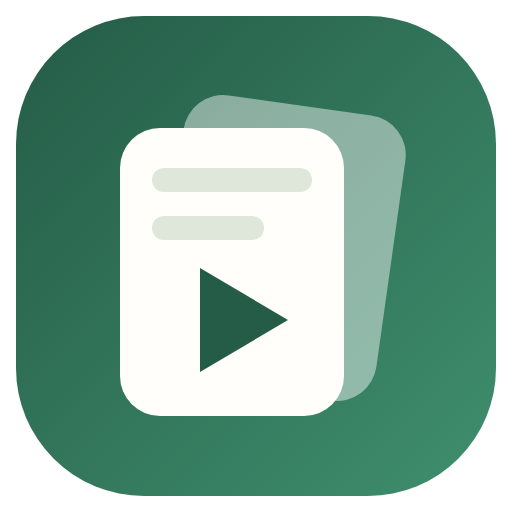
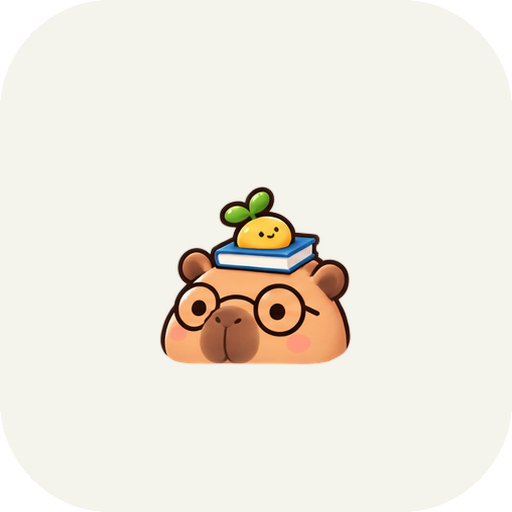
카피바라 캐릭터 적용: 로고, 로딩, 안내 애니메이션, 아이콘 / 카테고리 이모지 제거
- 헤더 로고를 카피바라 '쌤플레이' 로고 이미지로 교체, 파비콘·홈 화면 아이콘도 카피바라 얼굴로
- 스프라이트 시트를 잘라 blink(9)·read(11)·type(11)·sleep(9)·dance(33) 애니메이션 스트립(webp+png) 생성
- 첫 로딩 스플래시(책 읽는 카피바라), 큰 보기·선택 이미지 로딩 중 노트북 카피바라
- 프롬프트 복사 안내 팝업·플로팅 카드에 댄스 카피바라, 검색 결과 없음·푸터에 잠자는 카피바라
- 소개 페이지: 히어로 버튼 옆 댄스, 대상 카드에 노트북·독서, CTA 카드에 마스코트
- 카테고리 탭·그룹 라벨의 이모지 제거

Claude-Session: https://claude.ai/code/session_01VZ1UE2bfaEou2XbhDjdsN4

diff --git a/about.html b/about.html
@@ -4,7 +4,7 @@
 <meta charset="utf-8">
 <meta name="viewport" content="width=device-width, initial-scale=1">
 <meta name="theme-color" content="#255c47">
-<link rel="icon" type="image/svg+xml" href="assets/logo.svg">
+<link rel="icon" type="image/png" href="assets/favicon.png">
 <link rel="apple-touch-icon" href="assets/apple-touch-icon.png">
 <link rel="manifest" href="manifest.webmanifest">
 <title>쌤플레이 소개 · 교육 요약자료, 그림 한 장 고르면 됩니다</title>
@@ -18,9 +18,10 @@ a{color:inherit}
 .wrap{max-width:1080px;margin:0 auto;padding:0 20px}
 header.wrap{padding:18px 20px 8px}
 .topbar{display:flex;align-items:center;justify-content:space-between;gap:12px}
-.brand{font-weight:800;font-size:17px;display:flex;align-items:center;gap:10px;text-decoration:none}
-.brand img{width:34px;height:34px;border-radius:10px;box-shadow:0 6px 14px -6px var(--accent)}
-.brand small{font-weight:500;color:var(--muted);font-size:12.5px}
+.brand{display:flex;align-items:center;gap:10px;color:inherit;text-decoration:none;border-radius:10px;transition:opacity .2s;padding:2px 0}
+.brand:hover{opacity:.85}
+.brand .logo{height:56px;width:auto;display:block;filter:drop-shadow(0 4px 8px rgba(38,62,54,.18))}
+.brand small{font-weight:600;color:var(--muted);font-size:12.5px;margin-top:10px}
 .menu{position:relative;flex:none}
 .hamb{width:44px;height:44px;border:0;border-radius:50%;background:linear-gradient(145deg,#fffefa,#eef2e9);box-shadow:inset 0 1px 0 #fff,0 6px 14px -6px rgba(38,62,54,.45),0 0 0 1px var(--line);display:grid;place-items:center;padding:0;cursor:pointer;transition:transform .25s cubic-bezier(.34,1.56,.64,1),box-shadow .25s,background .3s}
 .hamb:hover{transform:translateY(-1px);box-shadow:inset 0 1px 0 #fff,0 10px 18px -8px rgba(38,62,54,.5),0 0 0 1px var(--accent)}
@@ -167,15 +168,30 @@ footer{padding:24px 0 36px;color:var(--muted);font-size:12.5px;text-align:center
   .slider{height:300px}
   .cols,.steps{grid-template-columns:1fr}
   header.wrap{padding:22px 20px 8px;padding-top:calc(22px + env(safe-area-inset-top))}
-  .brand{white-space:nowrap}
+  .brand .logo{height:44px}
   .brand small{display:none}
 }
+.capy{display:inline-block;overflow:hidden;position:relative;flex:none;vertical-align:middle;pointer-events:none}
+.capy img{position:absolute;left:0;top:0;height:100%;width:auto;max-width:none;animation:capySlide linear infinite}
+@keyframes capySlide{to{transform:translateX(-100%)}}
+.capy-blink{aspect-ratio:152/128}.capy-blink img{animation-duration:3.6s;animation-timing-function:steps(9)}
+.capy-read{aspect-ratio:115/128}.capy-read img{animation-duration:2.4s;animation-timing-function:steps(11)}
+.capy-type{aspect-ratio:138/128}.capy-type img{animation-duration:1.8s;animation-timing-function:steps(11)}
+.capy-sleep{aspect-ratio:201/128}.capy-sleep img{animation-duration:4s;animation-timing-function:steps(9)}
+.capy-dance{aspect-ratio:146/128}.capy-dance img{animation-duration:4s;animation-timing-function:steps(33)}
+.capy.h32{height:32px}.capy.h36{height:36px}.capy.h40{height:40px}.capy.h44{height:44px}.capy.h48{height:48px}.capy.h56{height:56px}.capy.h64{height:64px}.capy.h80{height:80px}.capy.h96{height:96px}
+.imgload{position:absolute;inset:10px;display:grid;place-items:center;background:rgba(245,240,231,.85);border-radius:12px;z-index:1}.imgload[hidden]{display:none}
+#splash{position:fixed;inset:0;z-index:999;background:var(--paper);display:grid;place-items:center;transition:opacity .4s}#splash.out{opacity:0;pointer-events:none}#splash .sin{display:grid;justify-items:center;gap:6px}#splash img.lg{width:min(70vw,260px);height:auto}
+@media(prefers-reduced-motion:reduce){.capy img{animation:none}}
+.hero .btns{align-items:center}
+.cta-capy{width:150px;height:auto;margin:-8px auto 4px;display:block}
+.card h3 .capy{margin-left:auto}
 </style>
 </head>
 <body>
 <header class="wrap">
   <div class="topbar">
-    <a class="brand" href="index.html"><img src="assets/logo.svg" alt="">쌤플레이<small>AI마당 · 선생님 모여라</small></a>
+    <a class="brand" href="index.html"><img class="logo" src="assets/logo-capy.png" alt="쌤플레이"><small>AI마당 · 선생님 모여라</small></a>
     <div class="menu"><button id="menuBtn" class="hamb" aria-label="더 보기 메뉴" aria-expanded="false"><span class="hb"><i></i><i></i><i></i></span></button><nav id="menuList" class="menulist" hidden><a href="index.html">쌤플 고르기</a><a href="#how">사용 방법</a><a href="#who">이런 분께</a></nav></div>
   </div>
 </header>
@@ -186,7 +202,7 @@ footer{padding:24px 0 36px;color:var(--muted);font-size:12.5px;text-align:center
       <h1>교육 요약자료,<br><em>그림 한 장</em> 고르면 됩니다.</h1>
       <p>쌤플레이는 선생님의 <b>강의자료</b>와 학생의 <b>공부 자료</b>를 ChatGPT 이미지로 만들 때 쓰는 프롬프트 쌤플 생성 사이트입니다.</p>
       <p>마음에 드는 예시 그림을 고르고 과목과 주제만 적으면 프롬프트가 완성됩니다. 복사해서 ChatGPT에 붙여넣고, 교과서 사진이나 학습지를 함께 올리면 그 내용으로 정리된 한 장이 나옵니다.</p>
-      <div class="btns"><a class="btn primary" href="index.html">지금 만들어 보기</a><a class="btn" href="#how">어떻게 쓰나요?</a></div>
+      <div class="btns"><a class="btn primary" href="index.html">지금 만들어 보기</a><a class="btn" href="#how">어떻게 쓰나요?</a><span class="capy capy-dance h64" aria-hidden="true"><img src="assets/capy-dance.webp" alt="" onerror="this.onerror=null;this.src='assets/capy-dance.png'"></span></div>
     </div>
     <div class="stage">
       <div class="stage-top"><i></i><i></i><i></i><span>쌤플 미리보기 · 자동 재생</span></div>
@@ -208,7 +224,7 @@ footer{padding:24px 0 36px;color:var(--muted);font-size:12.5px;text-align:center
     <div class="steps" id="steps">
       <div class="step on"><b>1</b><strong>쌤플 고르기</strong><span>학습 노트, 암기 카드, 지도안, 학습지, 평가지 중 마음에 드는 그림을 누릅니다.</span>
         <div class="mini"><span class="extag">예시</span><div class="mk mk1">
-          <div class="mk-tabs"><i class="on">전체</i><i>🍎 선생님용</i><i>📘 정리</i></div>
+          <div class="mk-tabs"><i class="on">전체</i><i>선생님용</i><i>정리</i></div>
           <div class="mk-grid"><div><img src="assets/thumbs/s-onepage.jpg" alt=""></div><div class="pick"><img src="assets/thumbs/s-cornell.jpg" alt=""><span class="ck">✓</span></div><div><img src="assets/thumbs/s-flashcards.jpg" alt=""></div><div><img src="assets/thumbs/t-plan.jpg" alt=""></div></div>
           <span class="mk-hand" style="left:36%;top:52%">👆</span>
         </div></div></div>
@@ -236,20 +252,21 @@ footer{padding:24px 0 36px;color:var(--muted);font-size:12.5px;text-align:center
   <section id="who" class="reveal">
     <h2>이런 분께</h2>
     <div class="cols">
-      <div class="card t"><h3><span class="ic">🍎</span>선생님</h3><p>한 차시 수업에 필요한 자료를 한 번에.</p><ul><li>학습 목표, 수업 흐름, 50분 지도안</li><li>핵심 발문, 선수학습 진단</li><li>활동 학습지, 형성평가, 채점 기준표</li></ul></div>
-      <div class="card"><h3><span class="ic">📘</span>공부하는 사람</h3><p>정리하고, 이해하고, 외우고, 점검하는 순서 그대로.</p><ul><li>한 장 복습 자료, 코넬 노트, 개념 시각화</li><li>쉽게 설명하기, 비유, 원리 이해</li><li>암기 카드, 두문자, 빈칸 문제, 예상문제</li></ul></div>
+      <div class="card t"><h3><span class="ic">🍎</span>선생님<span class="capy capy-type h48" aria-hidden="true"><img src="assets/capy-type.webp" alt="" onerror="this.onerror=null;this.src='assets/capy-type.png'"></span></h3><p>한 차시 수업에 필요한 자료를 한 번에.</p><ul><li>학습 목표, 수업 흐름, 50분 지도안</li><li>핵심 발문, 선수학습 진단</li><li>활동 학습지, 형성평가, 채점 기준표</li></ul></div>
+      <div class="card"><h3><span class="ic">📘</span>공부하는 사람<span class="capy capy-read h48" aria-hidden="true"><img src="assets/capy-read.webp" alt="" onerror="this.onerror=null;this.src='assets/capy-read.png'"></span></h3><p>정리하고, 이해하고, 외우고, 점검하는 순서 그대로.</p><ul><li>한 장 복습 자료, 코넬 노트, 개념 시각화</li><li>쉽게 설명하기, 비유, 원리 이해</li><li>암기 카드, 두문자, 빈칸 문제, 예상문제</li></ul></div>
     </div>
   </section>
 
   <section class="reveal">
     <div class="card" style="text-align:center;padding:28px">
+      <img class="cta-capy" src="assets/capy-mascot.webp" alt="" onerror="this.onerror=null;this.src='assets/capy-mascot.png'">
       <h2 style="margin-bottom:6px">바로 써 보세요</h2>
       <p class="lead" style="margin:0 auto 16px">설치도, 가입도 없습니다. 입력한 내용은 저장되지 않습니다.</p>
       <a class="btn primary" href="index.html">쌤플 고르러 가기 →</a>
     </div>
   </section>
 </main>
-<footer class="wrap">쌤플레이 · AI마당, 선생님 모여라</footer>
+<footer class="wrap" style="display:flex;align-items:center;justify-content:center;gap:8px"><span class="capy capy-sleep h36" aria-hidden="true"><img src="assets/capy-sleep.webp" alt="" onerror="this.onerror=null;this.src='assets/capy-sleep.png'"></span>쌤플레이 · AI마당, 선생님 모여라</footer>
 
 <script>
 const slides=[{"key": "s-onepage", "name": "한 장 복습 자료", "desc": "개요·인물·흐름·개념을 인포그래픽으로", "group": "정리", "role": "student", "thumb": "assets/thumbs/s-onepage.jpg", "featured": true}, {"key": "s-hand", "name": "손글씨 학습 노트", "desc": "개요·인물·흐름·주제를 손글씨 한 장에", "group": "정리", "role": "student", "thumb": "assets/thumbs/s-hand.jpg", "featured": false}, {"key": "s-postit", "name": "포스트잇 요약", "desc": "개념 하나씩 떼어 외우는 메모 9장", "group": "정리", "role": "student", "thumb": "assets/thumbs/s-postit.jpg", "featured": false}, {"key": "s-cornell", "name": "코넬 노트", "desc": "핵심 질문 | 학습 내용 | 요약", "group": "정리", "role": "student", "thumb": "assets/thumbs/s-cornell.jpg", "featured": true}, {"key": "s-visual", "name": "개념 시각화", "desc": "관계도 + 흐름도 + 읽는 순서", "group": "정리", "role": "student", "thumb": "assets/thumbs/s-visual.jpg", "featured": false}, {"key": "s-notes", "name": "시험 대비 정리 노트", "desc": "개념·관계·시험 포인트를 빽빽하게", "group": "정리", "role": "student", "thumb": "assets/thumbs/s-notes.jpg", "featured": false}, {"key": "s-map", "name": "구조·변화 도식", "desc": "흐름과 변화를 도식 하나로", "group": "정리", "role": "student", "thumb": "assets/thumbs/s-map.jpg", "featured": false}, {"key": "s-summary", "name": "단원 요약하기", "desc": "핵심 개념·공식·예시·주의점", "group": "정리", "role": "student", "thumb": "assets/thumbs/s-summary.jpg", "featured": false}, {"key": "s-glossary", "name": "용어 사전", "desc": "용어·정의·예시·혼동 주의 표", "group": "정리", "role": "student", "thumb": "assets/thumbs/s-glossary.jpg", "featured": false}, {"key": "s-formula", "name": "공식 정리", "desc": "핵심 틀 4개를 공식 카드로", "group": "정리", "role": "student", "thumb": "assets/thumbs/s-formula.jpg", "featured": false}, {"key": "s-timeline", "name": "시간순 정리", "desc": "사건 → 원인 → 결과 표", "group": "정리", "role": "student", "thumb": "assets/thumbs/s-timeline.jpg", "featured": false}, {"key": "s-process", "name": "과정 단계별 정리", "desc": "입력 → 변화 → 결과 표", "group": "정리", "role": "student", "thumb": "assets/thumbs/s-process.jpg", "featured": false}, {"key": "s-comparetable", "name": "비교표 만들기", "desc": "기준별 좌우 비교 + 아이콘", "group": "정리", "role": "student", "thumb": "assets/thumbs/s-comparetable.jpg", "featured": false}, {"key": "s-keypoints", "name": "핵심 내용 추리기", "desc": "핵심 10개 + 선정 이유 + 위치", "group": "정리", "role": "student", "thumb": "assets/thumbs/s-keypoints.jpg", "featured": false}, {"key": "s-basics", "name": "기초 개념 확인하기", "desc": "개념 정리 + 확인 질문", "group": "이해", "role": "student", "thumb": "assets/thumbs/s-basics.jpg", "featured": false}, {"key": "s-explain", "name": "쉽게 설명하기", "desc": "쉬운 말 설명 + 용어 뜻", "group": "이해", "role": "student", "thumb": "assets/thumbs/s-explain.jpg", "featured": false}, {"key": "s-analogy", "name": "일상생활에 비유하기", "desc": "비유 장면 + 대응표 + 한계", "group": "이해", "role": "student", "thumb": "assets/thumbs/s-analogy.jpg", "featured": false}, {"key": "s-principle", "name": "원리 이해하기", "desc": "단계별 근거와 적용 조건", "group": "이해", "role": "student", "thumb": "assets/thumbs/s-principle.jpg", "featured": false}, {"key": "s-compare", "name": "헷갈리는 개념 비교", "desc": "정의·공통점·차이점 비교표", "group": "이해", "role": "student", "thumb": "assets/thumbs/s-compare.jpg", "featured": false}, {"key": "s-counter", "name": "반례와 적용 조건", "desc": "흔한 주장 → 반례 → 조건", "group": "이해", "role": "student", "thumb": "assets/thumbs/s-counter.jpg", "featured": false}, {"key": "s-misconception", "name": "오개념 바로잡기", "desc": "오개념 ↔ 올바른 설명 표", "group": "이해", "role": "student", "thumb": "assets/thumbs/s-misconception.jpg", "featured": false}, {"key": "s-realcase", "name": "실제 사례 연결하기", "desc": "사례 카드 + 연결되는 개념", "group": "이해", "role": "student", "thumb": "assets/thumbs/s-realcase.jpg", "featured": false}, {"key": "s-socratic", "name": "질문으로 이해하기", "desc": "질문→답변→피드백→힌트", "group": "이해", "role": "student", "thumb": "assets/thumbs/s-socratic.jpg", "featured": false}, {"key": "s-flashcards", "name": "암기 카드 만들기", "desc": "앞면 질문 → 뒷면 정답 카드 쌍", "group": "암기", "role": "student", "thumb": "assets/thumbs/s-flashcards.jpg", "featured": true}, {"key": "s-cards", "name": "암기 카드", "desc": "질문 ↔ 정답으로 기억 확인", "group": "암기", "role": "student", "thumb": "assets/thumbs/s-cards.jpg", "featured": false}, {"key": "s-acronym", "name": "두문자 암기법", "desc": "첫 글자 조합 3가지 버전", "group": "암기", "role": "student", "thumb": "assets/thumbs/s-acronym.jpg", "featured": false}, {"key": "s-story", "name": "이야기로 외우기", "desc": "항목을 엮은 짧은 이야기 + 대응표", "group": "암기", "role": "student", "thumb": "assets/thumbs/s-story.jpg", "featured": true}, {"key": "s-chunk", "name": "묶어서 외우기", "desc": "의미 묶음 4개로 나누기", "group": "암기", "role": "student", "thumb": "assets/thumbs/s-chunk.jpg", "featured": false}, {"key": "s-blanks", "name": "빈칸 문제 만들기", "desc": "4컷 만화 속 빈칸 채우기", "group": "암기", "role": "student", "thumb": "assets/thumbs/s-blanks.jpg", "featured": false}, {"key": "s-retrieval", "name": "기억 꺼내기 연습", "desc": "질문 + 빈 답 칸 + 힌트", "group": "점검", "role": "student", "thumb": "assets/thumbs/s-retrieval.jpg", "featured": false}, {"key": "s-recallcheck", "name": "기억한 내용 점검", "desc": "기억 적기 → 틀린·빠진 내용", "group": "점검", "role": "student", "thumb": "assets/thumbs/s-recallcheck.jpg", "featured": false}, {"key": "s-selfcheck", "name": "내 설명 점검하기", "desc": "틀린 곳·빠진 곳을 표로", "group": "점검", "role": "student", "thumb": "assets/thumbs/s-selfcheck.jpg", "featured": false}, {"key": "s-summarycheck", "name": "요약 정확성 확인", "desc": "내 요약 vs 원문 대조표", "group": "점검", "role": "student", "thumb": "assets/thumbs/s-summarycheck.jpg", "featured": false}, {"key": "s-solving", "name": "풀이 과정 이해하기", "desc": "예제 풀이 단계 + 유사 문제", "group": "점검", "role": "student", "thumb": "assets/thumbs/s-solving.jpg", "featured": false}, {"key": "s-questions", "name": "근거 기반 예상문제", "desc": "문항표 + 선정 근거 + 정답", "group": "점검", "role": "student", "thumb": "assets/thumbs/s-questions.jpg", "featured": false}, {"key": "s-judgment", "name": "OX 선지 판단", "desc": "헷갈리는 선지를 OX와 근거로", "group": "점검", "role": "student", "thumb": "assets/thumbs/s-judgment.jpg", "featured": false}, {"key": "t-goals", "name": "학습 목표 만들기", "desc": "성취기준 → 수준별 목표 3개", "group": "선생님용", "role": "teacher", "thumb": "assets/thumbs/t-goals.jpg", "featured": false}, {"key": "t-flow", "name": "수업 흐름 간단 설계", "desc": "도입·전개·정리 시간표", "group": "선생님용", "role": "teacher", "thumb": "assets/thumbs/t-flow.jpg", "featured": false}, {"key": "t-plan", "name": "수업 지도안", "desc": "목표·발문·활동·평가 한 장 설계", "group": "선생님용", "role": "teacher", "thumb": "assets/thumbs/t-plan.jpg", "featured": true}, {"key": "t-questions", "name": "핵심 발문 만들기", "desc": "질문 의도·예상 답변·꼬리 질문", "group": "선생님용", "role": "teacher", "thumb": "assets/thumbs/t-questions.jpg", "featured": true}, {"key": "t-sheet", "name": "활동 학습지", "desc": "빈칸·비교표·서술형 직접 채우기", "group": "선생님용", "role": "teacher", "thumb": "assets/thumbs/t-sheet.jpg", "featured": false}, {"key": "t-diagnosis", "name": "선수학습 진단", "desc": "선수 개념 + 객관식 진단 문제", "group": "선생님용", "role": "teacher", "thumb": "assets/thumbs/t-diagnosis.jpg", "featured": false}, {"key": "t-quiz", "name": "형성평가", "desc": "수업 직후 이해 확인 + 정답", "group": "선생님용", "role": "teacher", "thumb": "assets/thumbs/t-quiz.jpg", "featured": false}, {"key": "t-rubric", "name": "채점 기준표", "desc": "평가 요소·수준·배점 한눈에", "group": "선생님용", "role": "teacher", "thumb": "assets/thumbs/t-rubric.jpg", "featured": false}];

diff --git a/index.html b/index.html
@@ -4,7 +4,7 @@
 <meta charset="utf-8">
 <meta name="viewport" content="width=device-width, initial-scale=1">
 <meta name="theme-color" content="#255c47">
-<link rel="icon" type="image/svg+xml" href="assets/logo.svg">
+<link rel="icon" type="image/png" href="assets/favicon.png">
 <link rel="apple-touch-icon" href="assets/apple-touch-icon.png">
 <link rel="manifest" href="manifest.webmanifest">
 <title>쌤플레이 · AI마당 선생님모여라 학습자료 프롬프트 sample 생성기</title>
@@ -24,12 +24,10 @@ button{cursor:pointer}
 .wrap{max-width:1480px;margin:0 auto;padding:0 16px}
 header.wrap{padding:18px 16px 8px}
 .topbar{display:flex;align-items:center;justify-content:space-between;gap:12px;flex-wrap:wrap}
-.brand{font-weight:800;font-size:17px;letter-spacing:.02em;display:flex;align-items:center;gap:10px;color:inherit;text-decoration:none;border-radius:10px;transition:opacity .2s;padding:4px 0}
-.brand:hover{opacity:.8}
-.brand:hover .logo{transform:rotate(-8deg) scale(1.05)}
-.brand .logo{transition:transform .2s}
-.brand .logo{width:34px;height:34px;border-radius:10px;display:block;box-shadow:0 6px 14px -6px var(--accent)}
-.brand small{font-weight:500;color:var(--muted);font-size:12.5px}
+.brand{display:flex;align-items:center;gap:10px;color:inherit;text-decoration:none;border-radius:10px;transition:opacity .2s;padding:2px 0}
+.brand:hover{opacity:.85}
+.brand .logo{height:56px;width:auto;display:block;filter:drop-shadow(0 4px 8px rgba(38,62,54,.18))}
+.brand small{font-weight:600;color:var(--muted);font-size:12.5px;margin-top:10px}
 .tagline{margin:0;font-size:13px;color:var(--muted)}
 .tagline b{color:var(--accent);font-weight:700}
 .topbar{flex-wrap:nowrap}
@@ -411,10 +409,12 @@ dialog.guide{width:min(96vw,640px)}
 @media(max-width:760px){
   header.wrap{padding:22px 16px 10px;padding-top:calc(22px + env(safe-area-inset-top))}
   .stickysel{top:calc(6px + env(safe-area-inset-top))}
-  .brand{font-size:16px}
+  .brand .logo{height:44px}
+  .brand small{display:none}
   .step-head{align-items:center}
   .step-head h2{font-size:15px}
   .step-choose .step-head .hint{display:none}
+  .step-choose .step-head h2 .capy{display:none}
   .step-choose .step-head{margin-bottom:6px}
   .tab{padding:6px 11px;font-size:12.5px}
   .ddbtn{padding:0 10px}
@@ -427,12 +427,25 @@ dialog.guide{width:min(96vw,640px)}
 }
 @media(prefers-reduced-motion:reduce){*,*::before,*::after{animation:none!important;transition:none!important}}
 @media print{.step-choose,.selbar,.alts,.actions,footer,.toast,.tune{display:none}.work-grid{display:block}.output{min-height:600px}body{background:#fff}}
+.capy{display:inline-block;overflow:hidden;position:relative;flex:none;vertical-align:middle;pointer-events:none}
+.capy img{position:absolute;left:0;top:0;height:100%;width:auto;max-width:none;animation:capySlide linear infinite}
+@keyframes capySlide{to{transform:translateX(-100%)}}
+.capy-blink{aspect-ratio:152/128}.capy-blink img{animation-duration:3.6s;animation-timing-function:steps(9)}
+.capy-read{aspect-ratio:115/128}.capy-read img{animation-duration:2.4s;animation-timing-function:steps(11)}
+.capy-type{aspect-ratio:138/128}.capy-type img{animation-duration:1.8s;animation-timing-function:steps(11)}
+.capy-sleep{aspect-ratio:201/128}.capy-sleep img{animation-duration:4s;animation-timing-function:steps(9)}
+.capy-dance{aspect-ratio:146/128}.capy-dance img{animation-duration:4s;animation-timing-function:steps(33)}
+.capy.h32{height:32px}.capy.h36{height:36px}.capy.h40{height:40px}.capy.h44{height:44px}.capy.h48{height:48px}.capy.h56{height:56px}.capy.h64{height:64px}.capy.h80{height:80px}.capy.h96{height:96px}
+.imgload{position:absolute;inset:10px;display:grid;place-items:center;background:rgba(245,240,231,.85);border-radius:12px;z-index:1}.imgload[hidden]{display:none}
+#splash{position:fixed;inset:0;z-index:999;background:var(--paper);display:grid;place-items:center;transition:opacity .4s}#splash.out{opacity:0;pointer-events:none}#splash .sin{display:grid;justify-items:center;gap:6px}#splash img.lg{width:min(70vw,260px);height:auto}
+@media(prefers-reduced-motion:reduce){.capy img{animation:none}}
 </style>
 </head>
 <body>
+<div id="splash" aria-hidden="true"><div class="sin"><span class="capy capy-read h96" aria-hidden="true"><img src="assets/capy-read.webp" alt="" onerror="this.onerror=null;this.src='assets/capy-read.png'"></span><img class="lg" src="assets/logo-capy.png" alt=""></div></div>
 <header class="wrap">
   <div class="topbar">
-    <a class="brand" id="homeLink" href="#" title="홈으로"><img class="logo" src="assets/logo.svg" alt="" width="34" height="34">쌤플레이<small>AI마당 · 선생님 모여라</small></a>
+    <a class="brand" id="homeLink" href="#" title="홈으로"><img class="logo" src="assets/logo-capy.png" alt="쌤플레이"><small>AI마당 · 선생님 모여라</small></a>
     <p class="tagline"><b>학습자료 프롬프트 sample 생성기</b></p>
     <div class="menu"><button id="menuBtn" class="hamb" aria-label="더 보기 메뉴" aria-expanded="false"><span class="hb"><i></i><i></i><i></i></span></button><nav id="menuList" class="menulist" hidden><a href="about.html">사이트 소개</a><a href="#" id="menuHome">쌤플 고르기</a></nav></div>
   </div>
@@ -440,13 +453,13 @@ dialog.guide{width:min(96vw,640px)}
 
 <main class="wrap">
   <section class="step step-choose current" id="choose" aria-labelledby="h1">
-    <div class="step-head"><h2 id="h1"><b>1</b>어떤 쌤플을 사용할까요?</h2>
+    <div class="step-head"><h2 id="h1"><b>1</b>어떤 쌤플을 사용할까요?<span class="capy capy-blink h40" aria-hidden="true"><img src="assets/capy-blink.webp" alt="" onerror="this.onerror=null;this.src='assets/capy-blink.png'"></span></h2>
       <div class="headright">
         <div class="dd" id="styleDd"><button id="styleBtn" class="ddbtn" aria-haspopup="listbox" aria-expanded="false">스타일 <span id="styleCur">전체</span> <span class="caret" aria-hidden="true"></span></button><div class="ddmenu" id="styleMenu" role="listbox" hidden></div></div>
       </div></div>
     <div class="tabs" id="tabs" role="tablist" aria-label="용도별 묶음"></div>
     <div id="groups"></div>
-    <p id="noResult" class="hint" hidden>해당하는 예시가 없어요.</p>
+    <p id="noResult" class="hint" hidden><span class="capy capy-sleep h48" aria-hidden="true"><img src="assets/capy-sleep.webp" alt="" onerror="this.onerror=null;this.src='assets/capy-sleep.png'"></span><span>해당하는 쌤플이 없어요. 다른 스타일이나 분류를 골라 보세요.</span></p>
   </section>
 
   <section id="work" hidden aria-label="프롬프트 만들기">
@@ -455,7 +468,7 @@ dialog.guide{width:min(96vw,640px)}
     <div class="selbar"><span class="stepnum">✓</span><span>선택한 쌤플</span><strong id="selName"></strong><span class="badge2" id="selTag"></span></div>
     <div class="work-grid">
       <aside class="preview">
-        <div class="preview-img"><img id="selImage" alt="선택한 예시"><button id="selZoom" class="zoom">🔍 크게</button></div>
+        <div class="preview-img"><div class="imgload" id="pLoad" hidden><span class="capy capy-type h64" aria-hidden="true"><img src="assets/capy-type.webp" alt="" onerror="this.onerror=null;this.src='assets/capy-type.png'"></span></div><img id="selImage" alt="선택한 예시"><button id="selZoom" class="zoom">🔍 크게</button></div>
         <p class="preview-what" id="selWhat"></p>
         <details class="alts" id="alts" open><summary class="alts-label">다른 쌤플 더보기</summary><div id="altStrip" class="alt-strip"></div></details>
       </aside>
@@ -515,14 +528,14 @@ dialog.guide{width:min(96vw,640px)}
   </section>
 </main>
 
-<footer class="wrap">쌤플레이 · 입력 내용은 저장되지 않습니다</footer>
+<footer class="wrap" style="display:flex;align-items:center;justify-content:center;gap:8px"><span class="capy capy-sleep h36" aria-hidden="true"><img src="assets/capy-sleep.webp" alt="" onerror="this.onerror=null;this.src='assets/capy-sleep.png'"></span>쌤플레이 · 입력 내용은 저장되지 않습니다</footer>
 
 <div id="toast" class="toast" aria-hidden="true"><span class="ok">✓</span><span id="toastText"></span></div>
-<div id="float" class="float" hidden role="status"><span class="ok">✓</span><div class="ftext"><b id="floatTitle">프롬프트 복사 완료</b><span id="floatText">프롬프트를 붙여넣으셨으면, 정확한 생성을 위해 예시 이미지도 넣어 주세요!</span></div><button id="floatImg" class="primary small">🖼 예시 이미지 복사</button><button id="floatX" aria-label="닫기">✕</button></div>
+<div id="float" class="float" hidden role="status"><span class="capy capy-dance h44" aria-hidden="true"><img src="assets/capy-dance.webp" alt="" onerror="this.onerror=null;this.src='assets/capy-dance.png'"></span><div class="ftext"><b id="floatTitle">프롬프트 복사 완료</b><span id="floatText">프롬프트를 붙여넣으셨으면, 정확한 생성을 위해 예시 이미지도 넣어 주세요!</span></div><button id="floatImg" class="primary small">🖼 예시 이미지 복사</button><button id="floatX" aria-label="닫기">✕</button></div>
 <dialog id="guide" class="guide" aria-labelledby="gTitle">
   <button id="guideX" class="dx" aria-label="닫기">✕</button>
   <div class="gwrap">
-    <div class="ghead"><span class="gcheck">✓</span><div><h3 id="gTitle">프롬프트가 복사됐어요</h3><p class="sub">ChatGPT에 붙여넣는 순서</p></div></div>
+    <div class="ghead"><span class="capy capy-dance h56" aria-hidden="true"><img src="assets/capy-dance.webp" alt="" onerror="this.onerror=null;this.src='assets/capy-dance.png'"></span><div><h3 id="gTitle">프롬프트가 복사됐어요</h3><p class="sub">ChatGPT에 붙여넣는 순서</p></div></div>
     <ol class="gsteps">
       <li class="s1"><b>1</b><div><strong>ChatGPT 입력창에 붙여넣기</strong><span>Ctrl+V(⌘V). 휴대폰은 입력창 길게 눌러 ‘붙여넣기’.</span></div></li>
       <li class="s2"><b>2</b><div><strong>예시 이미지도 넣기</strong><span>복사한 이미지를 붙여넣거나, 저장한 파일을 [+] 버튼으로 첨부.</span></div></li>
@@ -566,7 +579,7 @@ dialog.guide{width:min(96vw,640px)}
 <dialog id="dialog" aria-labelledby="dialogTitle">
   <button id="dialogX" class="dx" aria-label="닫기">✕</button>
   <div class="dbody">
-    <div class="dimg"><img id="dialogImage" alt=""><button class="dnav prev" id="dPrev" aria-label="이전 예시">‹</button><button class="dnav next" id="dNext" aria-label="다음 예시">›</button></div>
+    <div class="dimg"><div class="imgload" id="dLoad" hidden><span class="capy capy-type h64" aria-hidden="true"><img src="assets/capy-type.webp" alt="" onerror="this.onerror=null;this.src='assets/capy-type.png'"></span></div><img id="dialogImage" alt=""><button class="dnav prev" id="dPrev" aria-label="이전 예시">‹</button><button class="dnav next" id="dNext" aria-label="다음 예시">›</button></div>
     <div class="dside">
       <div><span class="badge2" id="dTag"></span><h3 id="dialogTitle"></h3><p class="sub" id="dDesc"></p></div>
       <div class="box"><b>어떤 자료인가요</b><p id="dWhat"></p></div>
@@ -671,7 +684,7 @@ const GUIDE={
   't-quiz':['수업 직후 확인 문항과 교사용 정답','차시 마무리 형성평가'],
   't-rubric':['평가 요소·수준·배점을 정리한 채점 기준표','서술형·수행평가 채점 기준 안내']
 };
-const GROUPS=[['teacher','🍎 선생님용'],['organize','📘 정리'],['understand','💡 이해'],['memorize','🧠 암기'],['check','✅ 점검']];
+const GROUPS=[['teacher','선생님용'],['organize','정리'],['understand','이해'],['memorize','암기'],['check','점검']];
 const HAND='크림색 모눈 종이 질감에 검은 펜 손글씨, 노랑·초록·분홍 형광펜 제목, 얇은 테두리, 작은 고전 인물 수채 일러스트';
 const $=id=>document.getElementById(id);
 const isMobile=()=>window.matchMedia('(max-width:1099px),(pointer:coarse)').matches;
@@ -716,7 +729,7 @@ function renderGallery(){
     }));
     wrap.append(grid);
   }
-  $('noResult').hidden=visibleKeys.length>0;
+  $('noResult').hidden=visibleKeys.length>0;$('noResult').style.display=visibleKeys.length?'none':'flex';$('noResult').style.alignItems='center';$('noResult').style.gap='10px';
 }
 function closeMenu(){$('styleMenu').hidden=true;$('styleBtn').setAttribute('aria-expanded','false')}
 $('styleBtn').onclick=e=>{e.stopPropagation();const open=$('styleMenu').hidden;$('styleMenu').hidden=!open;$('styleBtn').setAttribute('aria-expanded',open)};
@@ -726,7 +739,7 @@ document.addEventListener('keydown',e=>{if(e.key==='Escape')closeMenu()});
 /* ---------- dialog ---------- */
 function openDialog(key){
   dialogKey=key;const s=byKey(key),f=info[key],g=GUIDE[key]||['',''];
-  $('dialogImage').src=s.image;$('dialogImage').alt=f.name+' 예시';$('dTag').textContent=s.tag;$('dialogTitle').textContent=f.name;$('dDesc').textContent=f.desc;
+  if($('dialogImage').src!==new URL(s.image,location.href).href)$('dLoad').hidden=false;$('dialogImage').src=s.image;$('dialogImage').alt=f.name+' 예시';$('dTag').textContent=s.tag;$('dialogTitle').textContent=f.name;$('dDesc').textContent=f.desc;
   $('dWhat').textContent=g[0];$('dWhen').textContent=g[1];
   const list=visibleKeys.length?visibleKeys:samples.map(s=>s.key);const i=list.indexOf(key);
   $('dCounter').textContent='';$('dPrev').hidden=$('dNext').hidden=list.length<2;
@@ -757,7 +770,7 @@ function enterWork(key,scroll=true){
 }
 function renderPreview(){
   const s=sample(),f=info[s.key];$('alts').open=!isMobile();
-  $('selImage').src=s.image;$('selImage').alt=f.name+' 예시';$('selName').textContent=f.name;$('selTag').textContent=s.tag;$('ssImg').src=s.thumb;$('ssName').textContent=f.name;$('ssTag').textContent=s.tag;$('selWhat').textContent=(GUIDE[s.key]||[''])[0];
+  if($('selImage').src!==new URL(s.image,location.href).href)$('pLoad').hidden=false;$('selImage').src=s.image;$('selImage').alt=f.name+' 예시';$('selName').textContent=f.name;$('selTag').textContent=s.tag;$('ssImg').src=s.thumb;$('ssName').textContent=f.name;$('ssTag').textContent=s.tag;$('selWhat').textContent=(GUIDE[s.key]||[''])[0];
   const alts=samples.filter(x=>x.group===s.group);
   $('altStrip').replaceChildren(...alts.map(x=>{const b=document.createElement('button');b.className='alt'+(x.key===s.key?' active':'');b.title=info[x.key].name;
     const im=document.createElement('img');im.src=x.thumb;im.alt='';im.loading='lazy';const sp=document.createElement('span');sp.textContent=info[x.key].name;b.append(im,sp);
@@ -1014,7 +1027,9 @@ function resetInputs(){['grade','subject','topic','extra','content'].forEach(id=
 $('reset').onclick=()=>{resetInputs();toast('모두 지웠어요')};
 
 window.addEventListener('pageshow',()=>{syncSubject();renderExamples('topic');renderExamples('extra');if(active)build()});
+$('dialogImage').onload=$('dialogImage').onerror=()=>{$('dLoad').hidden=true};$('selImage').onload=$('selImage').onerror=()=>{$('pLoad').hidden=true};
 renderGallery();setCurrent(1);
+(()=>{const sp=$('splash');const t0=Date.now();let d=false;const done=()=>{if(d)return;d=true;const wait=Math.max(0,500-(Date.now()-t0));setTimeout(()=>{sp.classList.add('out');setTimeout(()=>sp.remove(),450)},wait)};if(document.readyState==='complete')done();else{window.addEventListener('load',done);setTimeout(done,1500)}})();
 </script>
 </body>
 </html>
